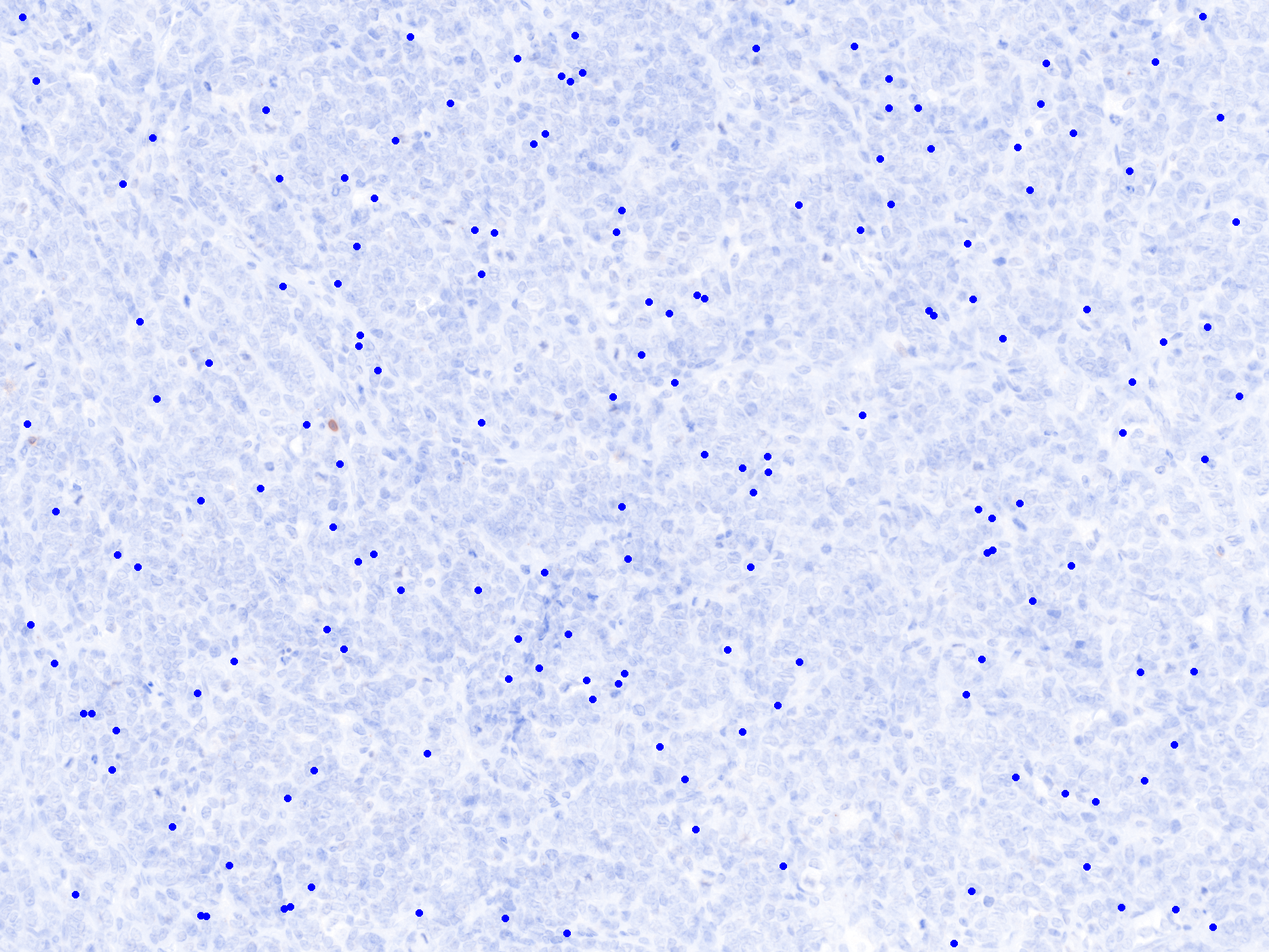
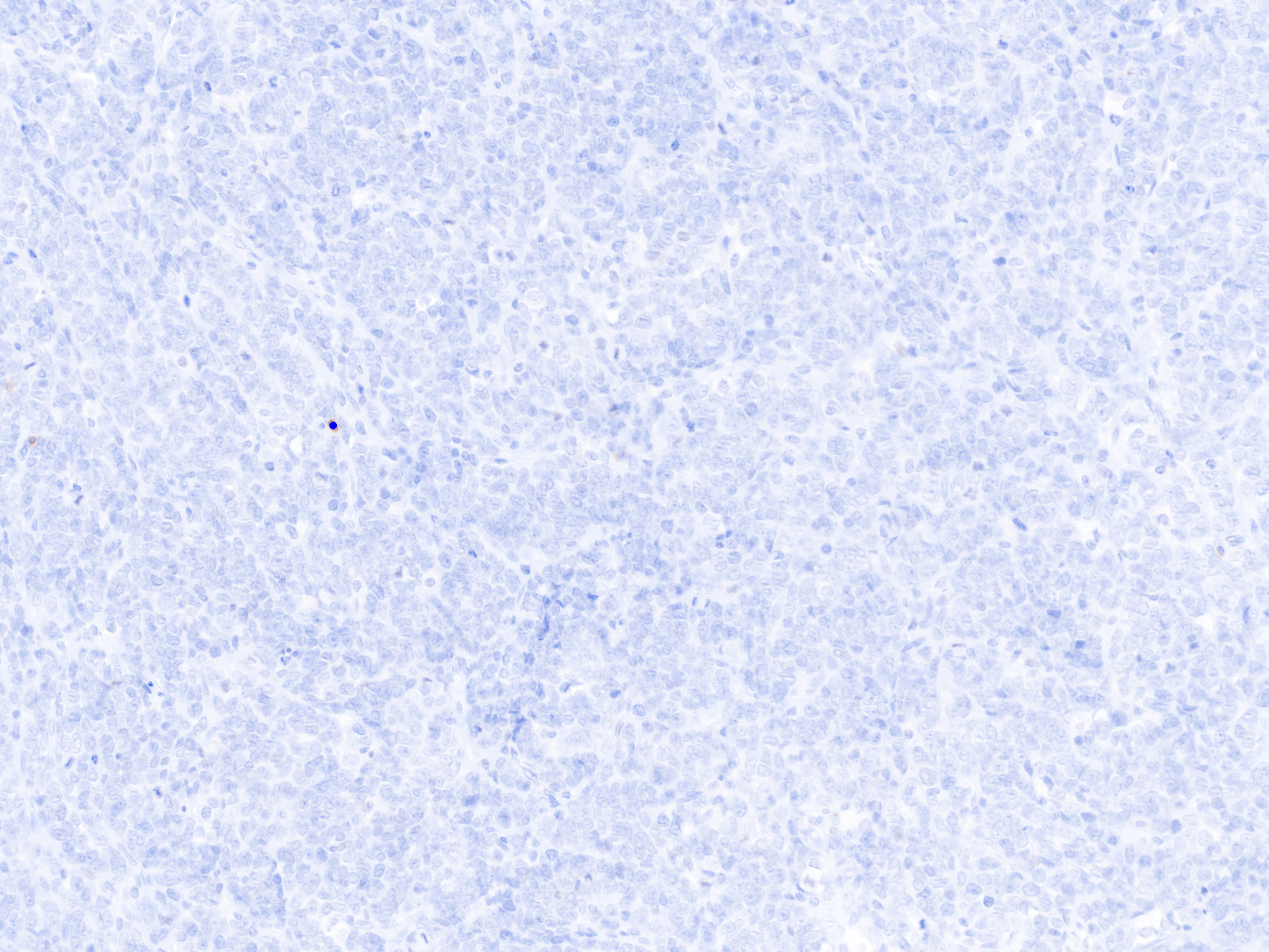
thresholding images

Changed region(s): [[0.5267, 0.3063, 0.5577, 0.3369], [0.4338, 0.0613, 0.4647, 0.0919]]

diff --git a/Thresholding/threshold_define.py b/Thresholding/threshold_define.py
@@ -40,8 +40,14 @@ def main():
     
     mean = df[args.column_name].mean()
     std = df[args.column_name].std()
+    q0 = df[args.column_name].quantile(0)
+    q1 = df[args.column_name].quantile(0.25)
+    q2 = df[args.column_name].quantile(0.5)
+    q3 = df[args.column_name].quantile(0.75)
+    q4 = df[args.column_name].quantile(1)
     print(f'Mean: {mean}')
     print(f'Std: {std}')
+    print(f'q0: {q0}, q1: {q1}, q2: {q2}, q3: {q3}, q4: {q4}')
     
     # 繪製直方圖和正態分佈曲線
     plt.figure(figsize=(20,15))
@@ -62,13 +68,11 @@ def main():
     
     '''========================================================== Thresholding ================================================================'''
     
-    threshold_value = mean + 3 * std
+    threshold_value = mean
     
-    # observe how many points are bigger than threshold
-    threshold_points = df[ df[args.column_name] > threshold_value ]
-    print(threshold_points)
-    
-    for sample_name in threshold_points['Sample Name'].unique():
+    for sample_name in df['Sample Name'].unique():
+        
+        print(f'sample_name: {sample_name}')
         
         base_name = sample_name.split('.im3')[0]
         coordinate_name = '_FoxP3_path_view.tif'
@@ -77,12 +81,19 @@ def main():
         input_image = os.path.join(args.input_image_path, complete_name)
         image = Image.open(input_image)
         draw = ImageDraw.Draw(image)
-        
+        # Coordinate problem
+        image_height = image.size[1]
+    
+        # observe how many points are bigger than threshold
+        threshold_points = df[ (df['Sample Name'] == sample_name) & (df[args.column_name] > threshold_value) ]
+
+        print("threshold_points")
+        print(threshold_points)
         #sample_points = threshold_points [ threshold_points['Sample Name'] == sample_name ]
         
         for _, points in threshold_points.iterrows():
             x = points['Cell X Position']
-            y = points['Cell Y Position']
+            y = image_height - points['Cell Y Position'] 
             
             draw.ellipse([x-5, y-5, x+5, y+5], outline='blue', fill='blue')
     

diff --git a/Training/train_FoxP3_threshold.py b/Training/train_FoxP3_threshold.py
@@ -6,7 +6,7 @@ import cv2
 import config
 import os
 
-from dataset import FucciDataset
+from dataset import FoxP3_Dataset
 from transform_alb import train_transform, val_transform
 from torch.utils.data import DataLoader
 
